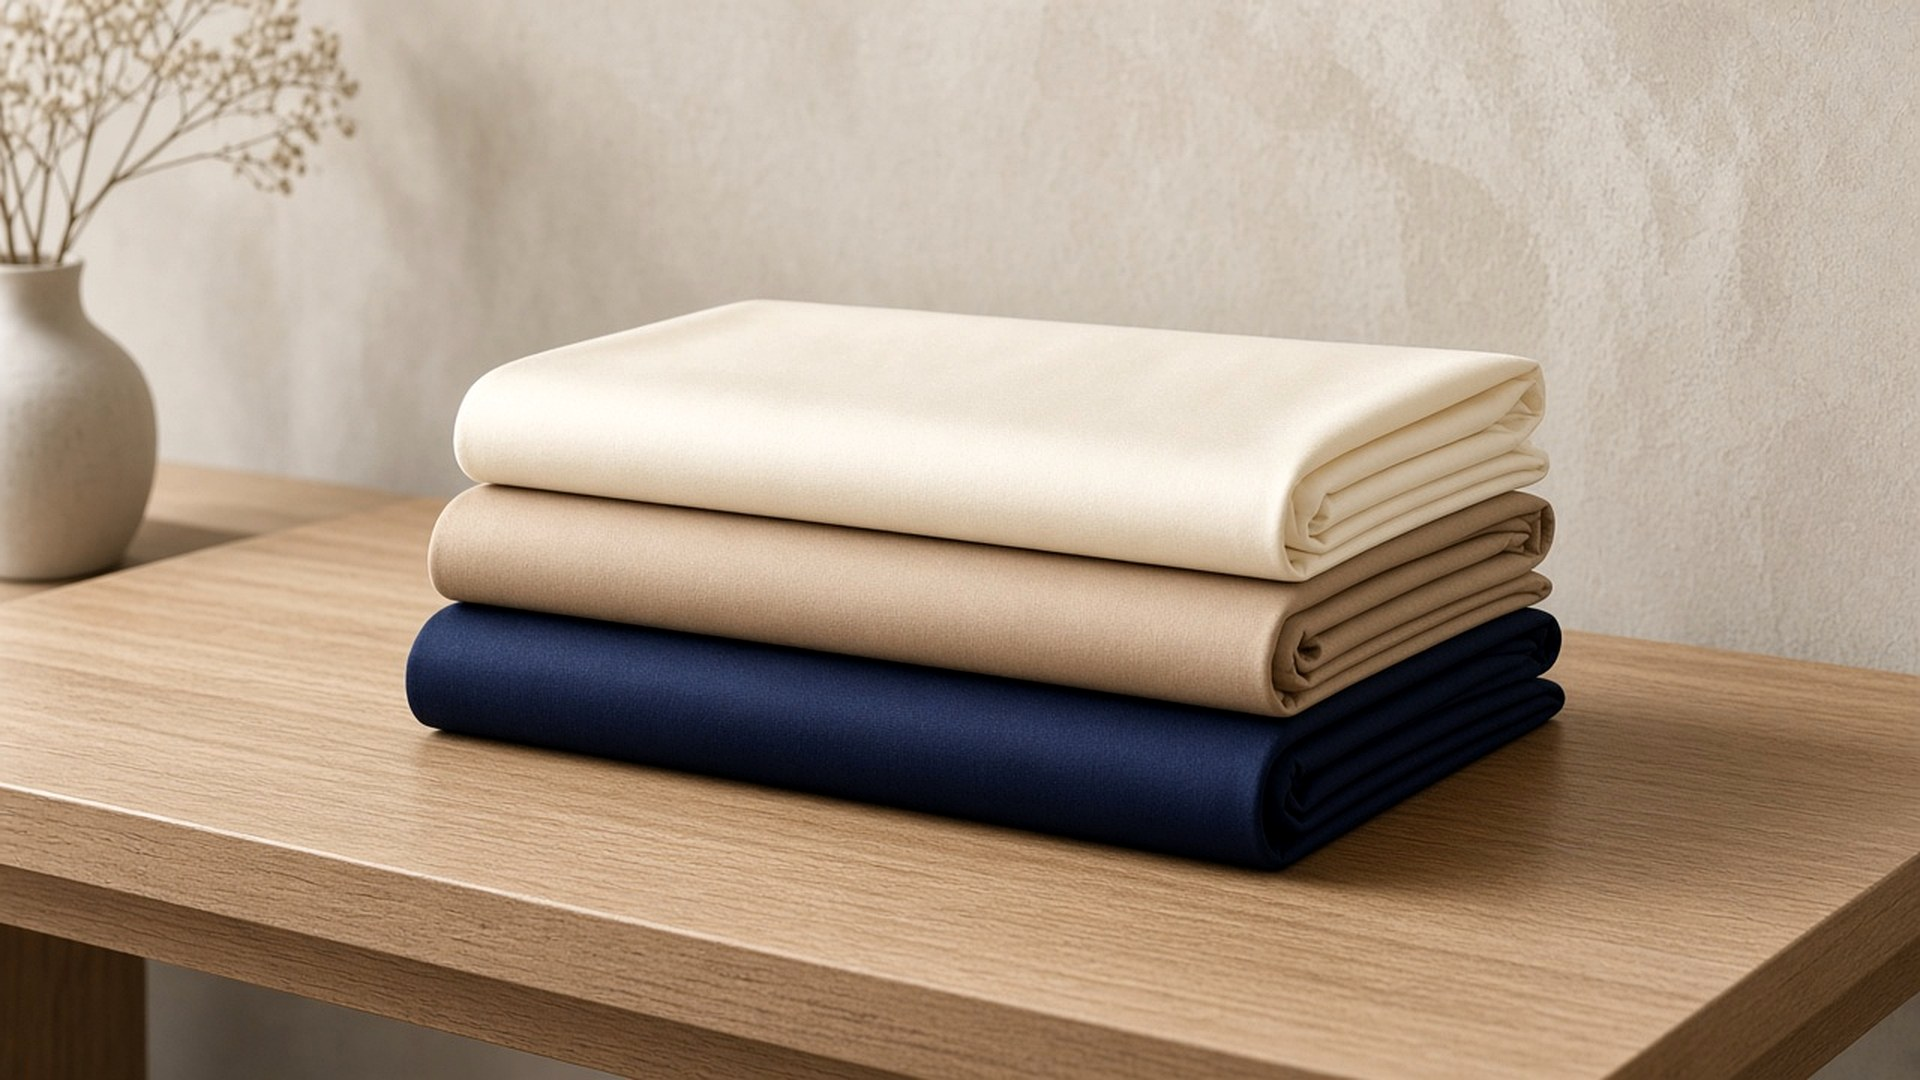
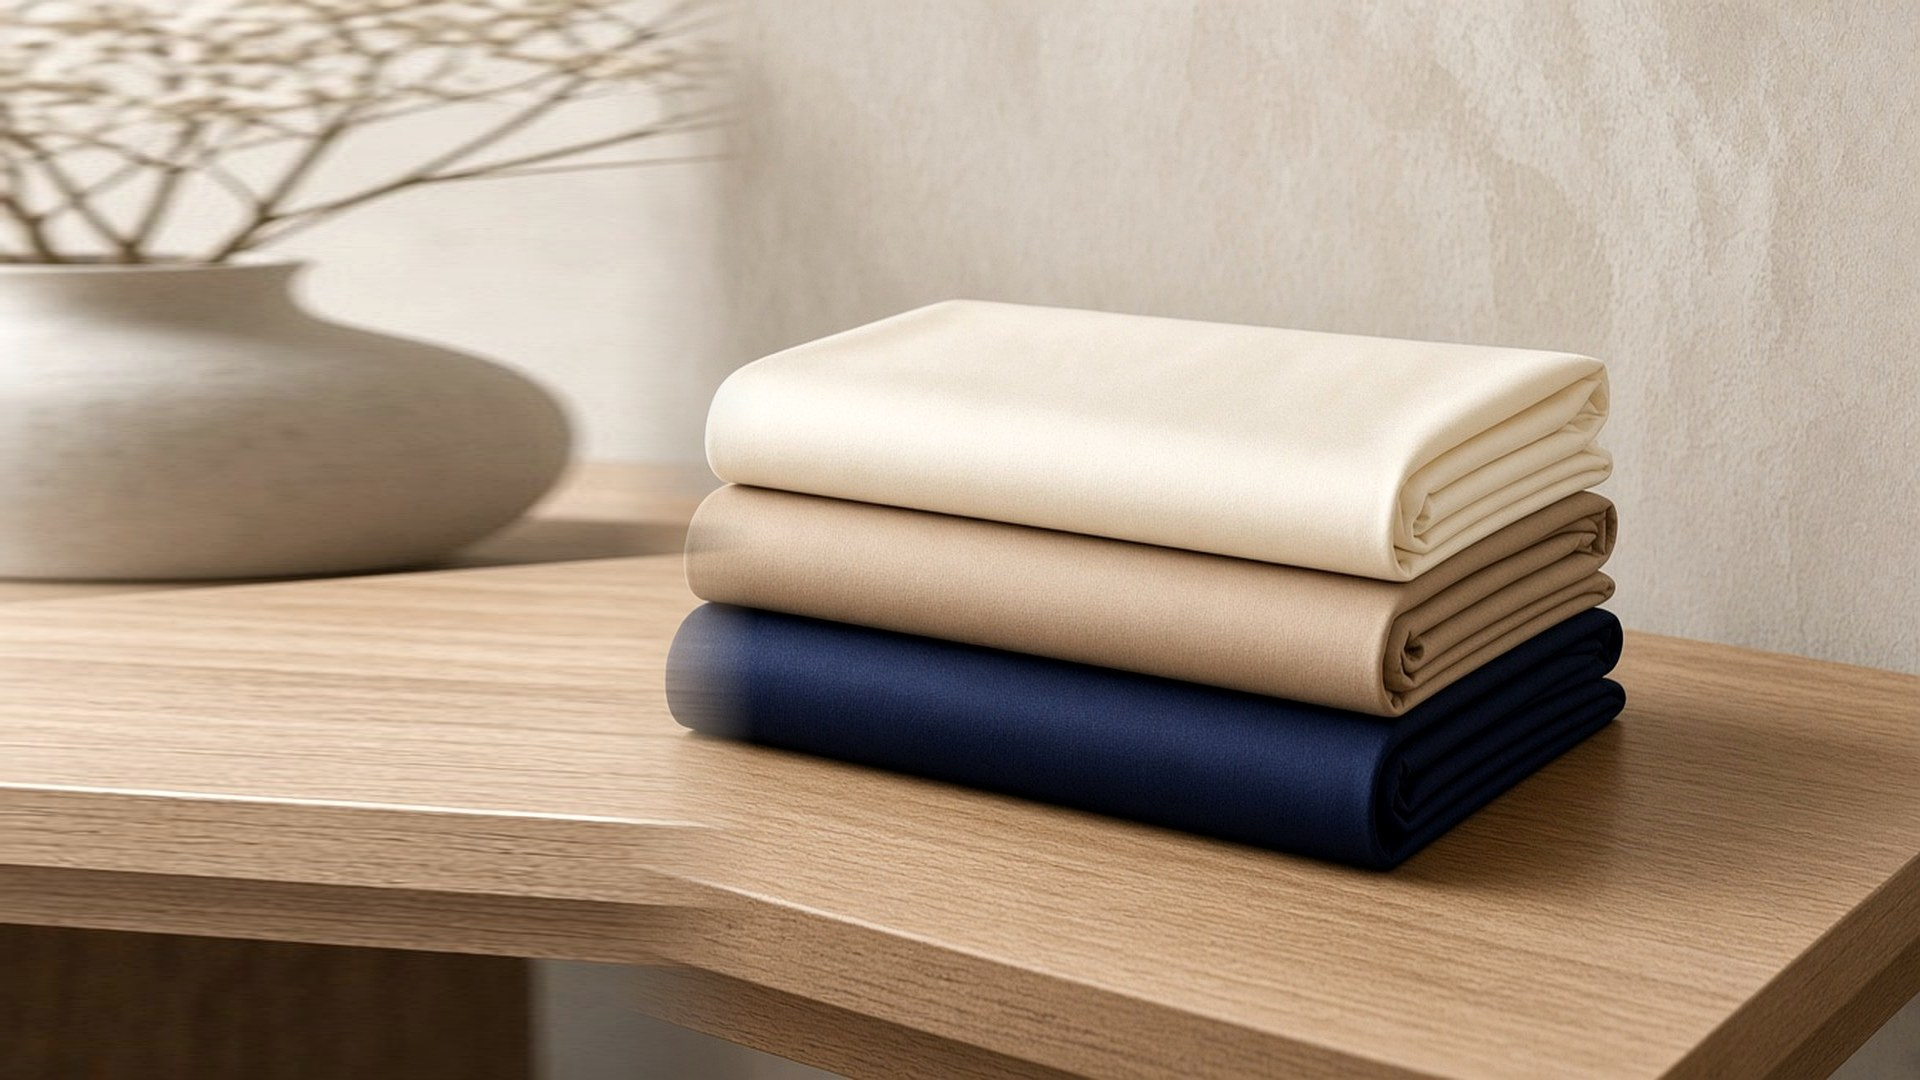
Shift the fabric hero pile right so brand copy stays clear.
Give the cloth stack more room on the right and leave open space
under the FEELINGS text on the left.

diff --git a/src/data/demo-home.ts b/src/data/demo-home.ts
@@ -18,7 +18,7 @@ export const demoHero = {
       src: "/brand/hero/fabric-table.jpg",
       alt: "Three folded unstitched fabrics piled on a table — cream, camel, and navy",
       label: "Unstitched Fabric",
-      position: "object-[50%_55%]",
+      position: "object-[58%_48%]",
     },
     {
       src: "/brand/hero/dress-shirt-navy.jpg",
